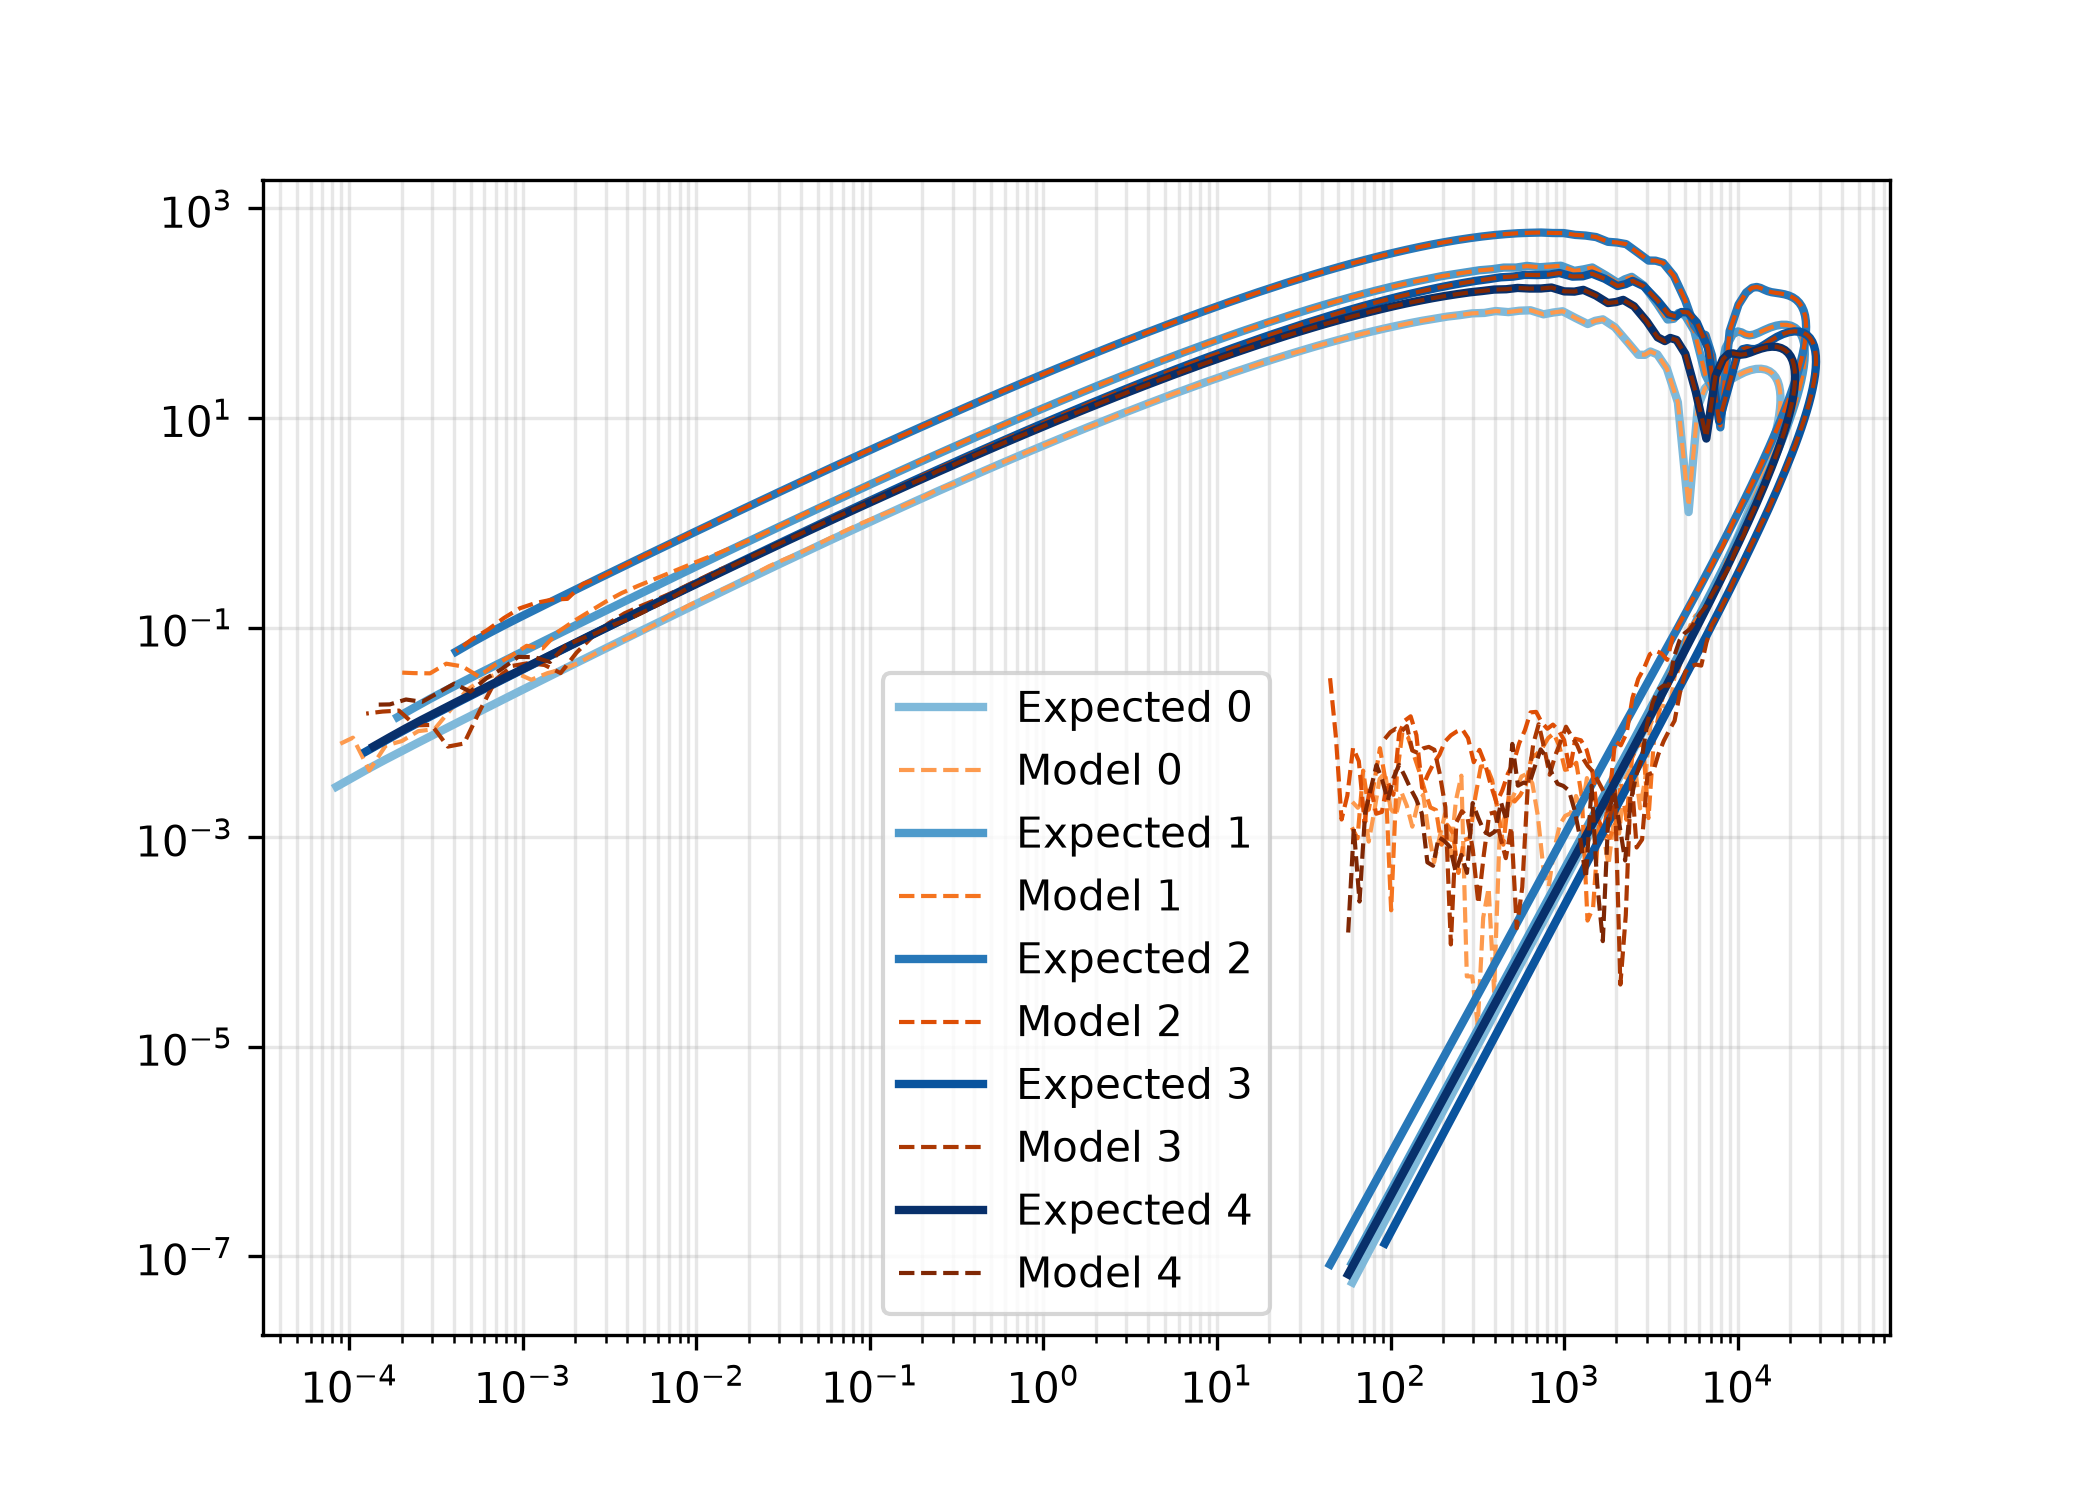
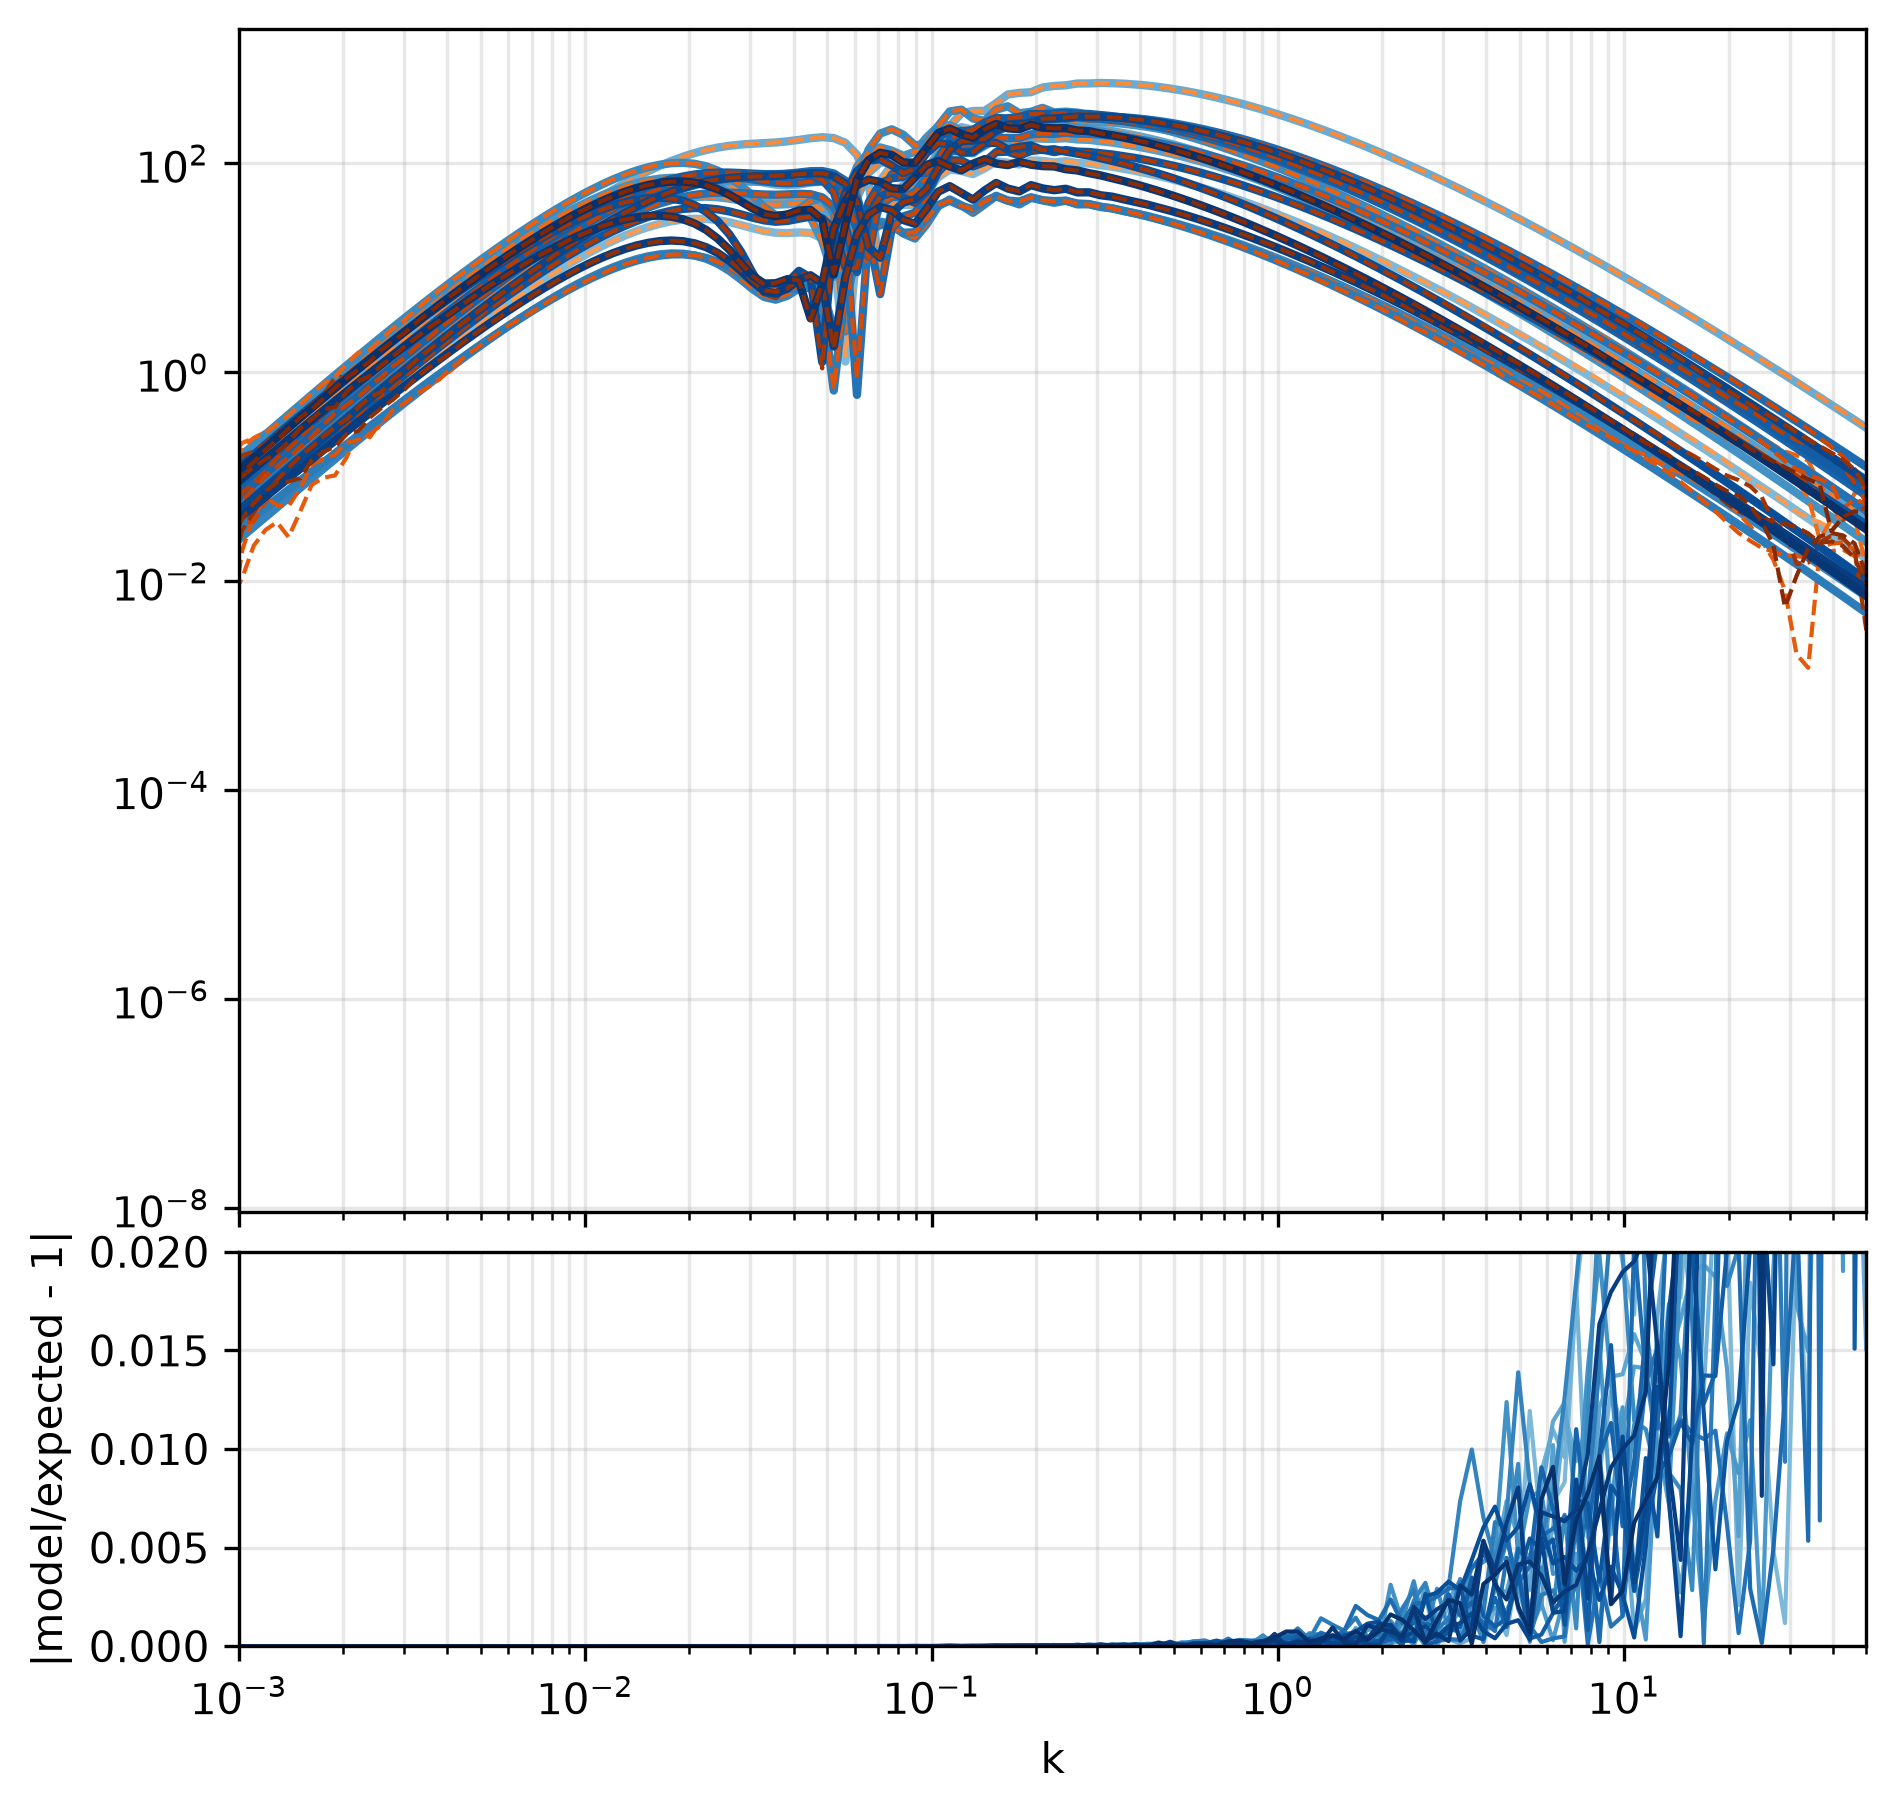
more testing

diff --git a/plotter.py b/plotter.py
@@ -75,15 +75,52 @@ with torch.no_grad():
         for i, (m,r) in enumerate(zip(mse.tolist(), rel.tolist())):
             f.write(f"Sample {i}: MSE={m}, Relative Error={r}\n")
 
-fig, ax = plt.subplots(figsize=(7,5))
-n = 5
+# fig, ax = plt.subplots(figsize=(7,5))
+# n = 5
+# exp_colors = plt.cm.Blues(np.linspace(0.45, 1.0, n))     # expected: blues
+# mod_colors = plt.cm.Oranges(np.linspace(0.45, 1.0, n))   # model: oranges
+
+# for i in range(n):
+#     ax.loglog(np.abs(k_col[i]), np.abs(yt_np[i]), '-', color=exp_colors[i], lw=2, label=f'Expected {i}')
+#     ax.loglog(np.abs(k_col[i]), np.abs(yp_np[i]), '--', color=mod_colors[i], lw=1, label=f'Model {i}')
+# ax.grid(True, which='both', alpha=0.3)
+# plt.xlim(1e-3, 50)
+# ax.legend()
+
+# plt.savefig('predictions_plot.png',dpi=300)
+# plt.close()
+
+# plt.figure()
+# for i in range(n):
+#     plt.semilogx(np.abs(k_col[i]), np.abs(yp_np[i] / yt_np[i] - 1), '-', color=exp_colors[i], lw=1, label=f'Ratio {i}')
+# plt.xlim(1e-3, 50)
+# plt.ylim(0, 0.2)
+# plt.legend()
+# plt.savefig('ratio_plot.png',dpi=300)
+# plt.close()
+
+fig, (ax, ax_r) = plt.subplots(
+    2, 1, figsize=(7, 7), sharex=True,
+    gridspec_kw={'height_ratios': [3, 1], 'hspace': 0.05}
+)
+n = 20
 exp_colors = plt.cm.Blues(np.linspace(0.45, 1.0, n))     # expected: blues
 mod_colors = plt.cm.Oranges(np.linspace(0.45, 1.0, n))   # model: oranges
 
+# Top panel: expected vs. model
 for i in range(n):
-    ax.loglog(np.abs(x_np[i]), np.abs(yt_np[i]), '-', color=exp_colors[i], lw=2, label=f'Expected {i}')
-    ax.loglog(np.abs(x_np[i]), np.abs(yp_np[i]), '--', color=mod_colors[i], lw=1, label=f'Model {i}')
+    ax.loglog(np.abs(k_col[i]), np.abs(yt_np[i]), '-', color=exp_colors[i], lw=2, label=f'Expected {i}')
+    ax.loglog(np.abs(k_col[i]), np.abs(yp_np[i]), '--', color=mod_colors[i], lw=1, label=f'Model {i}')
 ax.grid(True, which='both', alpha=0.3)
-ax.legend()
-plt.savefig('predictions_plot.png',dpi=300)
+
+# Bottom panel: fractional error
+for i in range(n):
+    ax_r.semilogx(np.abs(k_col[i]), np.abs(0.04 * (yp_np[i] - yt_np[i]) / x_np[i]), '-', color=exp_colors[i], lw=1, label=f'Ratio {i}')
+ax_r.set_ylim(0, 0.02)
+ax_r.set_xlim(1e-3, 50)
+ax_r.set_xlabel('k')
+ax_r.set_ylabel('|model/expected - 1|')
+ax_r.grid(True, which='both', alpha=0.3)
+
+plt.savefig('predictions_plot.png', dpi=300, bbox_inches='tight')
 plt.close()
